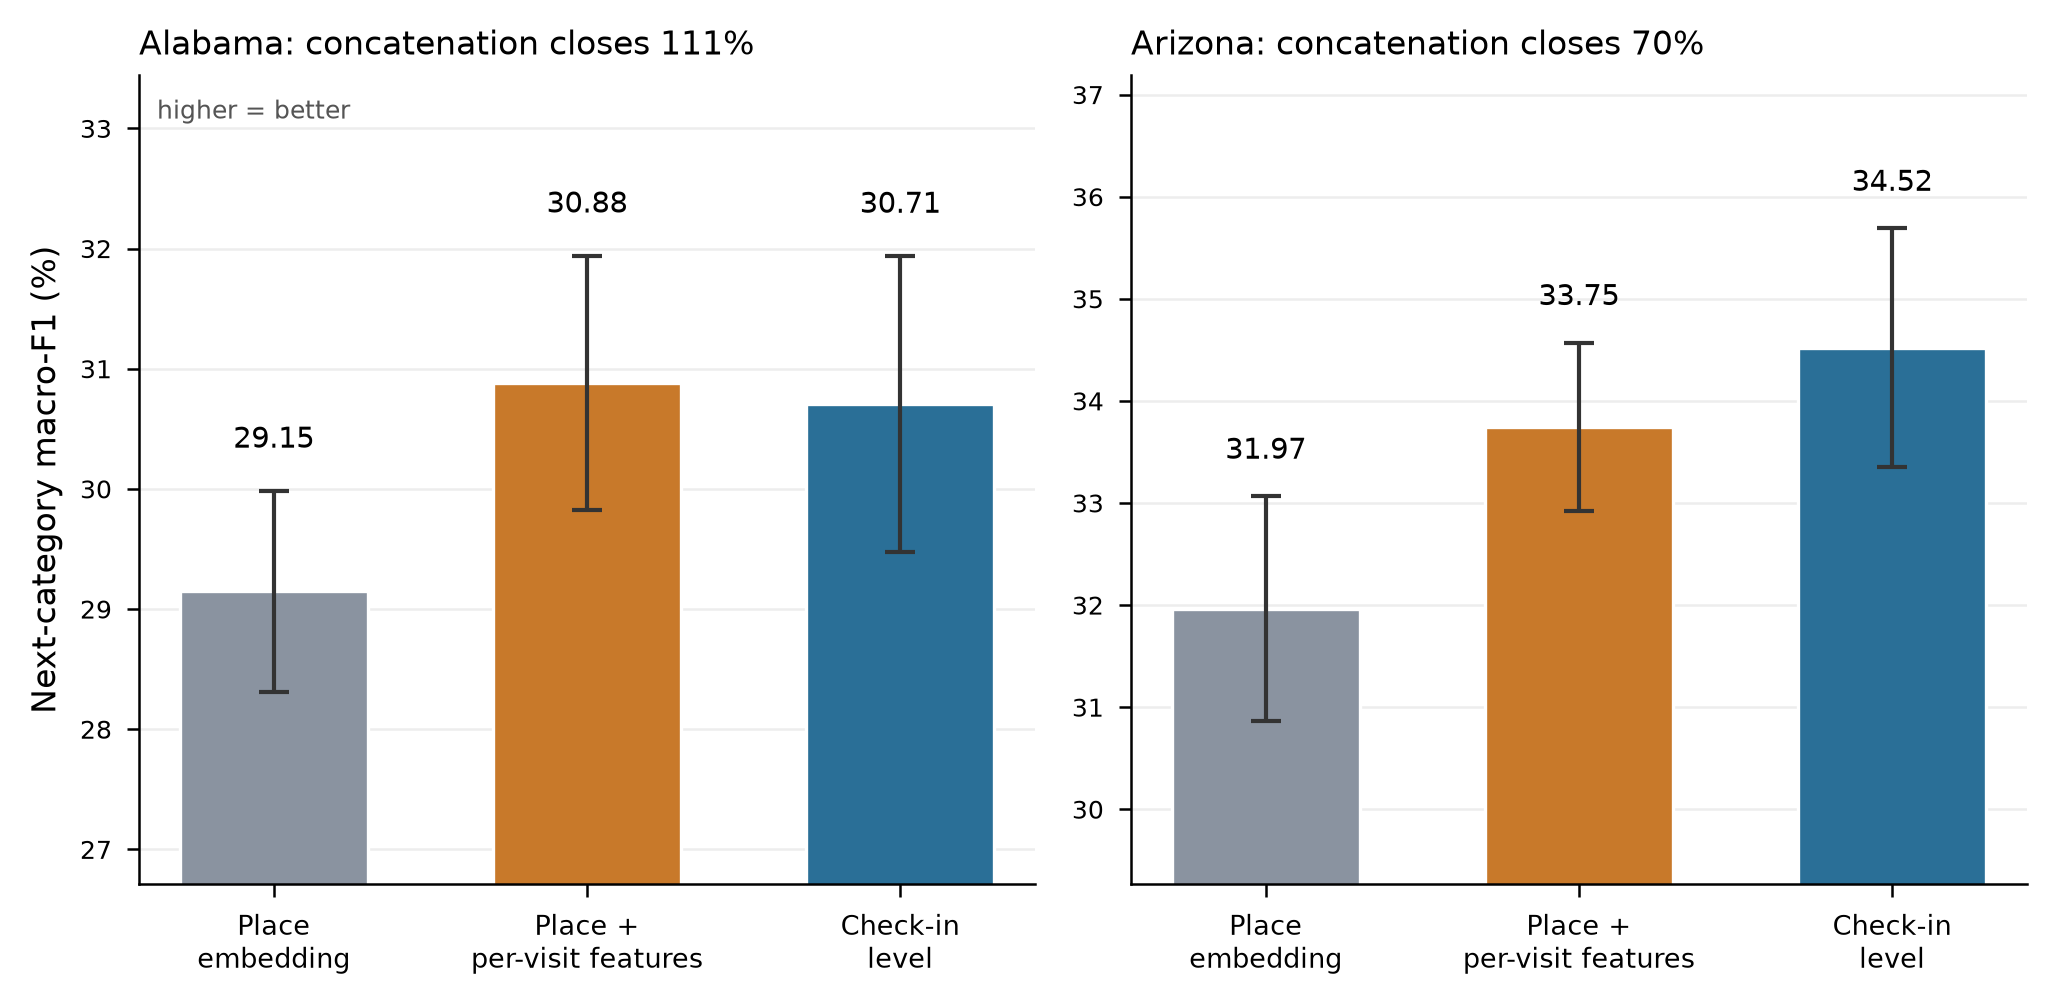
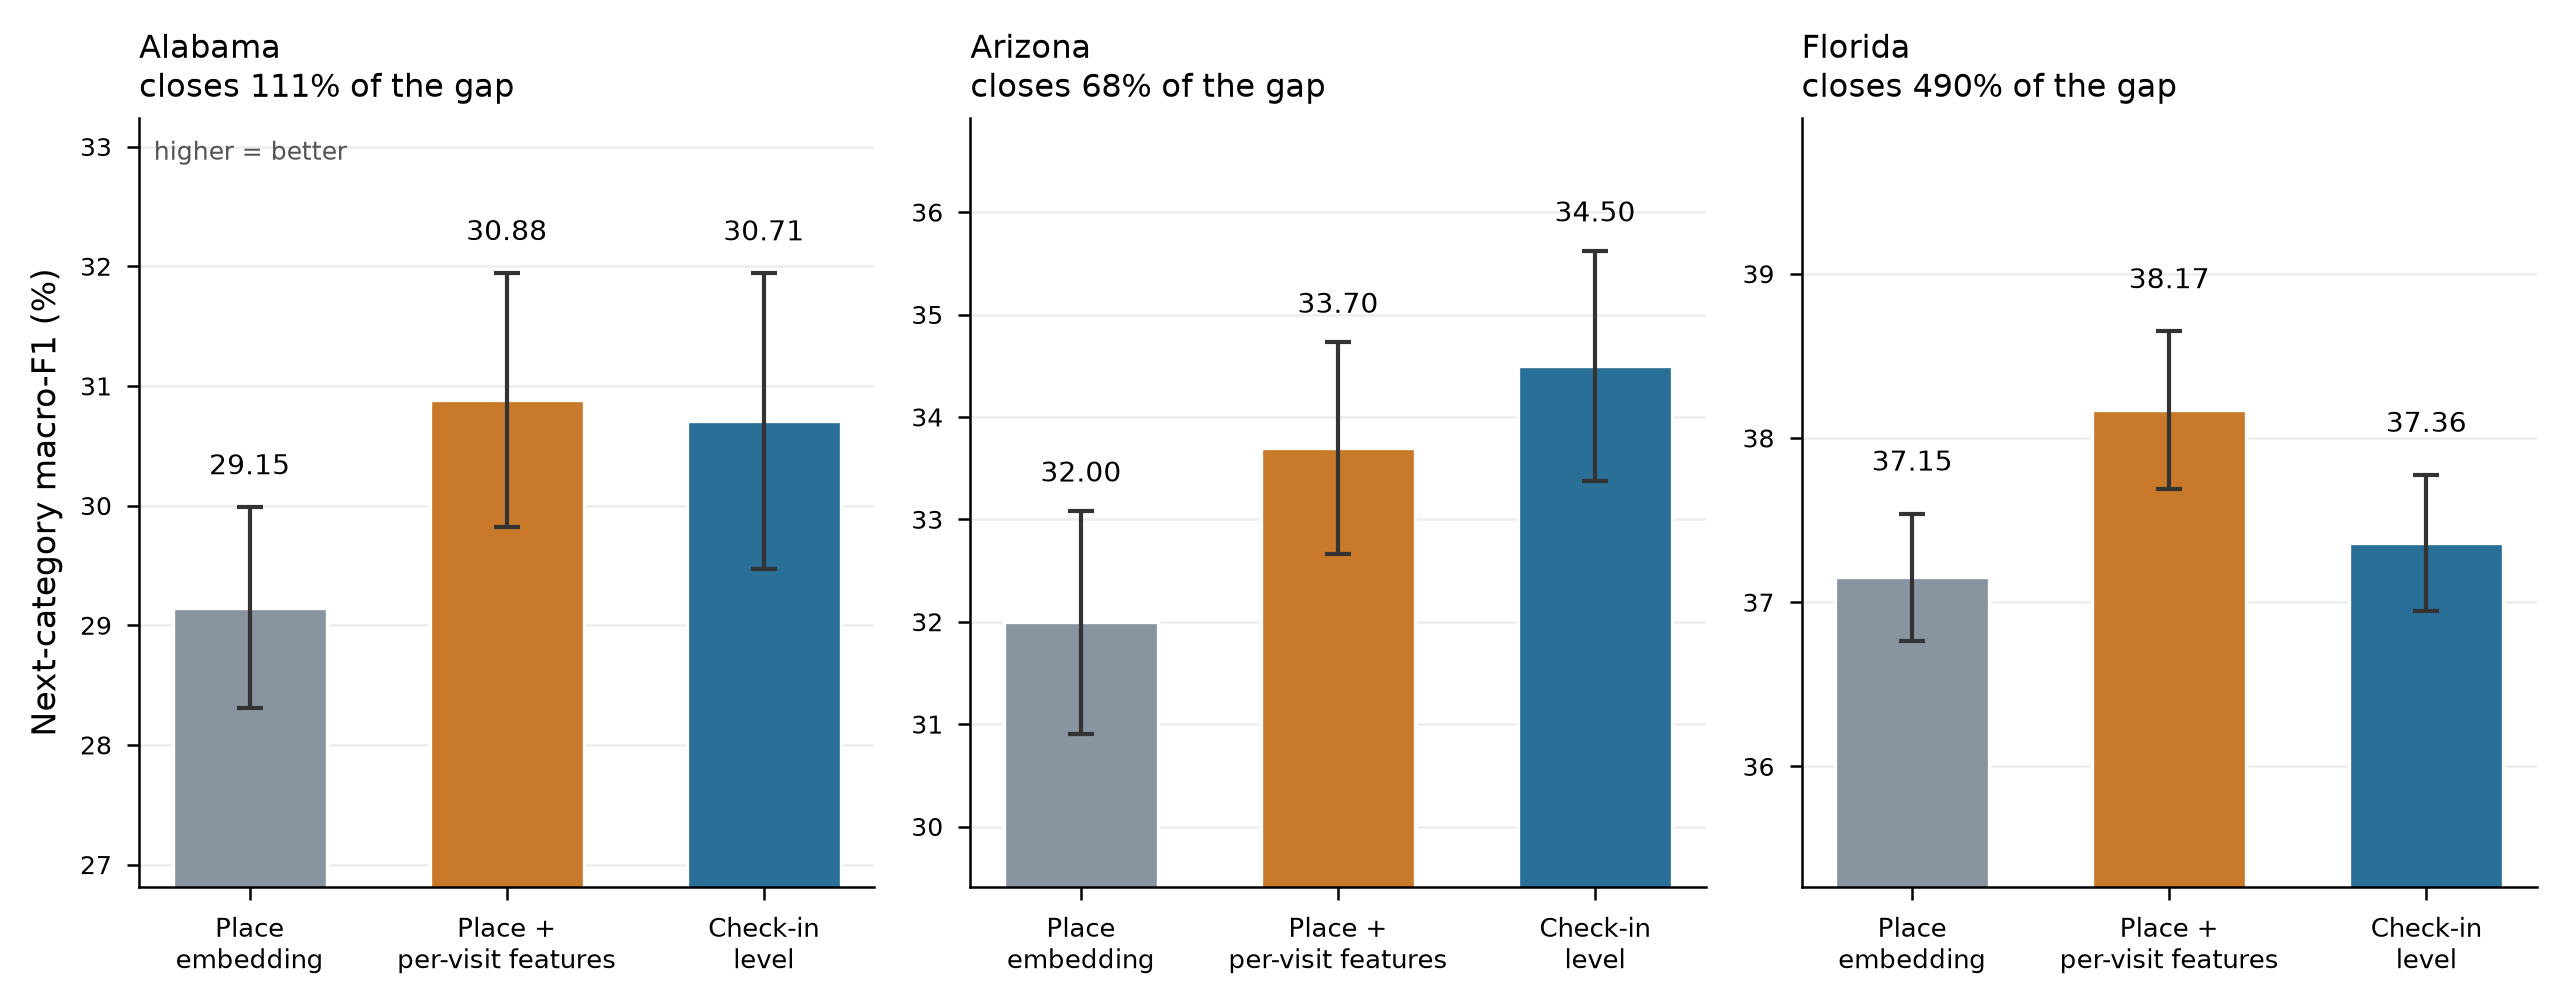
Q13: Florida fecha o estudo, e e o dataset onde a concatenacao supera
Florida com a sua taxa (0,005). Os dois controles de fidelidade sao os mais proximos de
todos: place 37,1524 contra 37,13 reportado, e check-in 37,3602 contra 37,36, ou seja
menos de um milesimo.

O RESULTADO. O intervalo entre as duas colunas da tabela e de apenas 0,21 ponto em
Florida, o menor dos tres datasets. A concatenacao sozinha ganha 1,02 ponto (p<0,001,
unanime nas cinco dobras) e fica 0,81 ACIMA da representacao por check-in (p=0,001,
tambem unanime). Nesse dataset a injecao de features nao apenas fecha o intervalo: ela o
ultrapassa.

Os tres datasets: Alabama fecha 111 por cento, Arizona 68, Florida 490. Em Alabama a
concatenacao alcanca a representacao por check-in, em Florida a supera, e so em Arizona
sobra intervalo para ela.

SOBRE A DISCREPANCIA POR FOLD. Ela nao cresce com o tamanho: Florida tem treze vezes as
janelas de Alabama e seis vezes as de Arizona, e sua maior diferenca por fold e 0,09,
menor que os 0,19 de Arizona. Nos dois o sinal alterna e a media fica perto de zero.
Compativel com ruido de execucao, mas o controle direto e que decide, e ele esta rodando:
a mesma configuracao de Arizona duas vezes.

Figura regenerada com os tres datasets.

diff --git a/articles/dissertacao/wrapup/post_submission_studies/Q13_concatenation_control.md b/articles/dissertacao/wrapup/post_submission_studies/Q13_concatenation_control.md
@@ -89,8 +89,13 @@ suspensa ate o controle responder.
 | Alabama | check-in | 30,7058 | 30,77 | dentro de $0{,}07$ |
 | Arizona | place | 31,9953 | 31,93 | **em aberto**: media dentro de $0{,}07$, mas nao reproduz por fold |
 | Arizona | check-in | 34,4991 | 34,51 | dentro de $0{,}02$ |
+| Florida | place | 37,1524 | 37,13 | media dentro de $0{,}03$; por fold, maior diferenca $0{,}09$ |
+| Florida | check-in | 37,3602 | 37,36 | dentro de $0{,}001$ |
 
-Florida: em execucao com a taxa $0{,}005$.
+A discrepancia por fold **nao cresce com o tamanho do dataset**: Florida tem treze vezes as janelas
+de Alabama e seis vezes as de Arizona, e sua maior diferenca por fold ($0{,}09$) e menor que a de
+Arizona ($0{,}19$). Nos dois casos o sinal alterna entre folds e a media fica perto de zero. Isso e
+compativel com ruido de execucao, mas o controle direto e que decide.
 
 ## O resultado
 
@@ -98,9 +103,16 @@ Florida: em execucao com a taxa $0{,}005$.
 |---|--:|--:|--:|--:|--:|--:|
 | Alabama | 29,148 | 30,882 | 30,706 | $+1{,}558$ | $+1{,}734$ ($p = 0{,}003$) | **111 por cento** |
 | Arizona | 31,995 | 33,697 | 34,499 | $+2{,}504$ | $+1{,}702$ ($p < 0{,}001$) | **68 por cento** |
+| Florida | 37,152 | 38,171 | 37,360 | $+0{,}208$ | $+1{,}018$ ($p < 0{,}001$) | **490 por cento** |
 
 Testes pareados sobre as cinco dobras. O ganho da concatenacao e unanime nas cinco dobras nos dois
 datasets.
+
+**Em Florida a concatenacao supera a representacao por check-in.** O intervalo entre as duas colunas
+da tabela e de apenas $0{,}21$ ponto ali, o menor dos tres datasets, e a concatenacao sozinha ganha
+$1{,}02$ ponto, ficando $0{,}81$ acima da representacao por check-in, unanime nas cinco dobras
+($p = 0{,}001$). Os dois controles de fidelidade de Florida sao os mais proximos de todos:
+$+0{,}022$ e $+0{,}000$ contra a tabela.
 
 **Em Alabama a concatenacao alcanca a representacao por check-in.** Os dois bracos ficam a
 $0{,}18$ ponto um do outro, e o teste pareado nao separa ($p = 0{,}53$). Em Arizona sobra intervalo:
